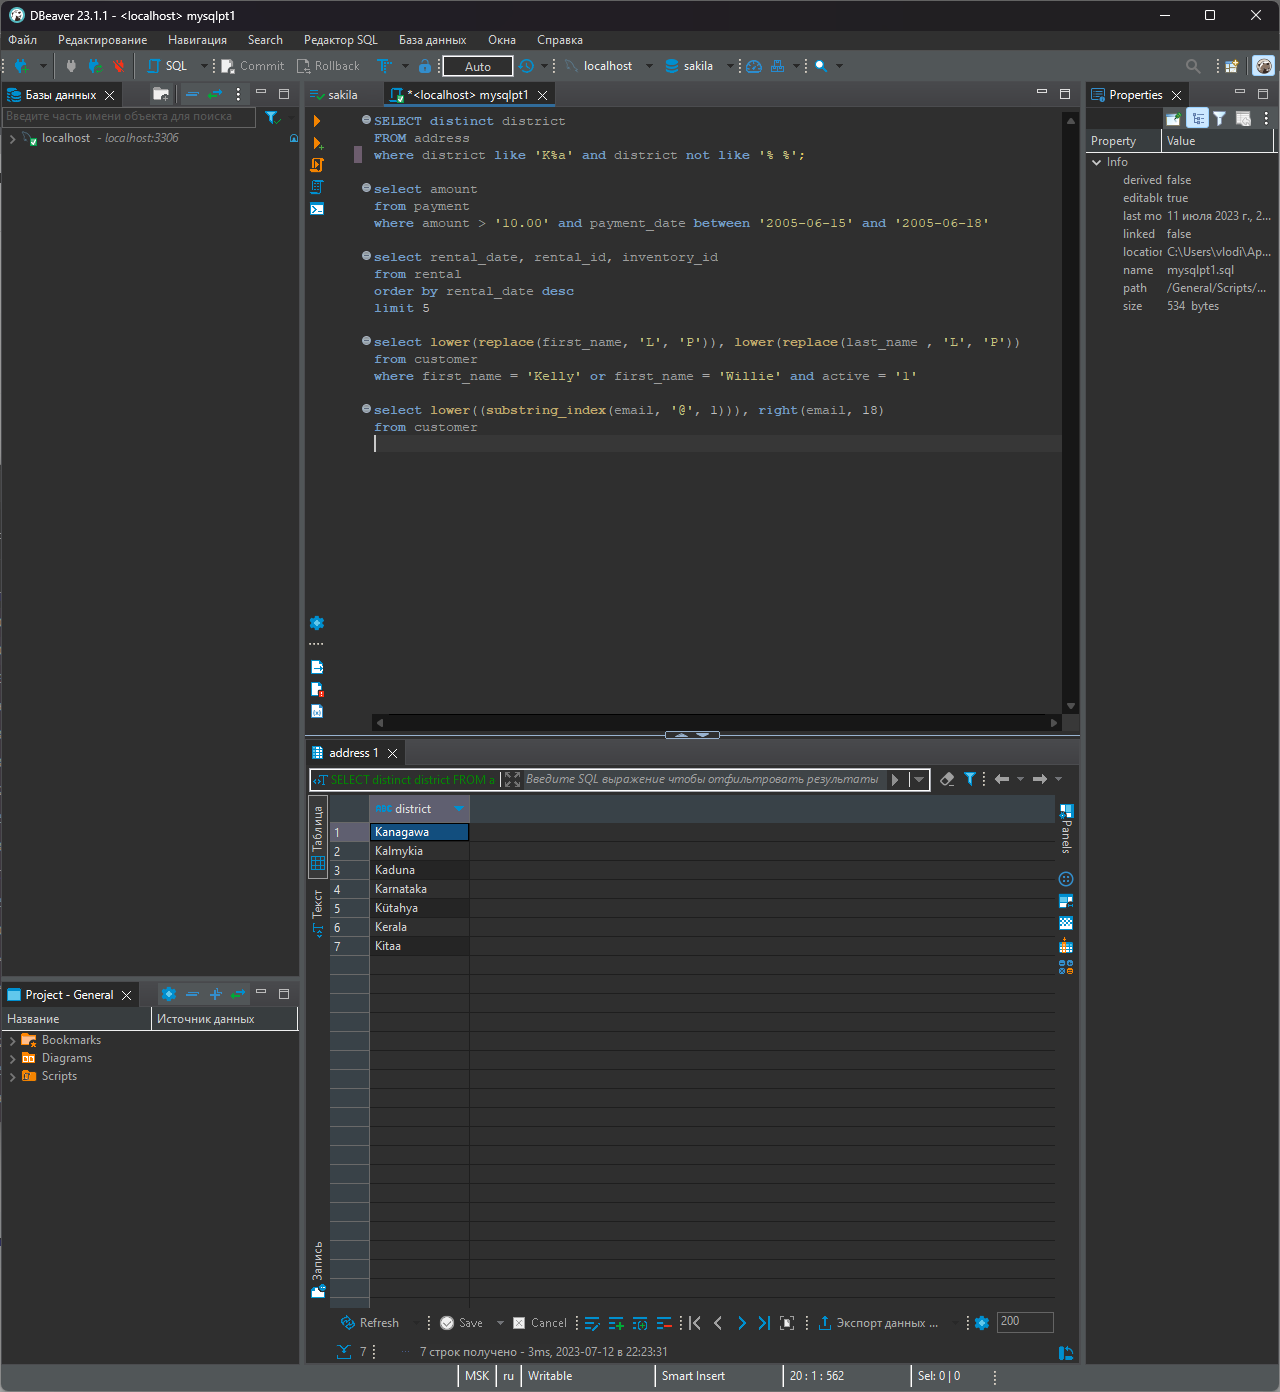
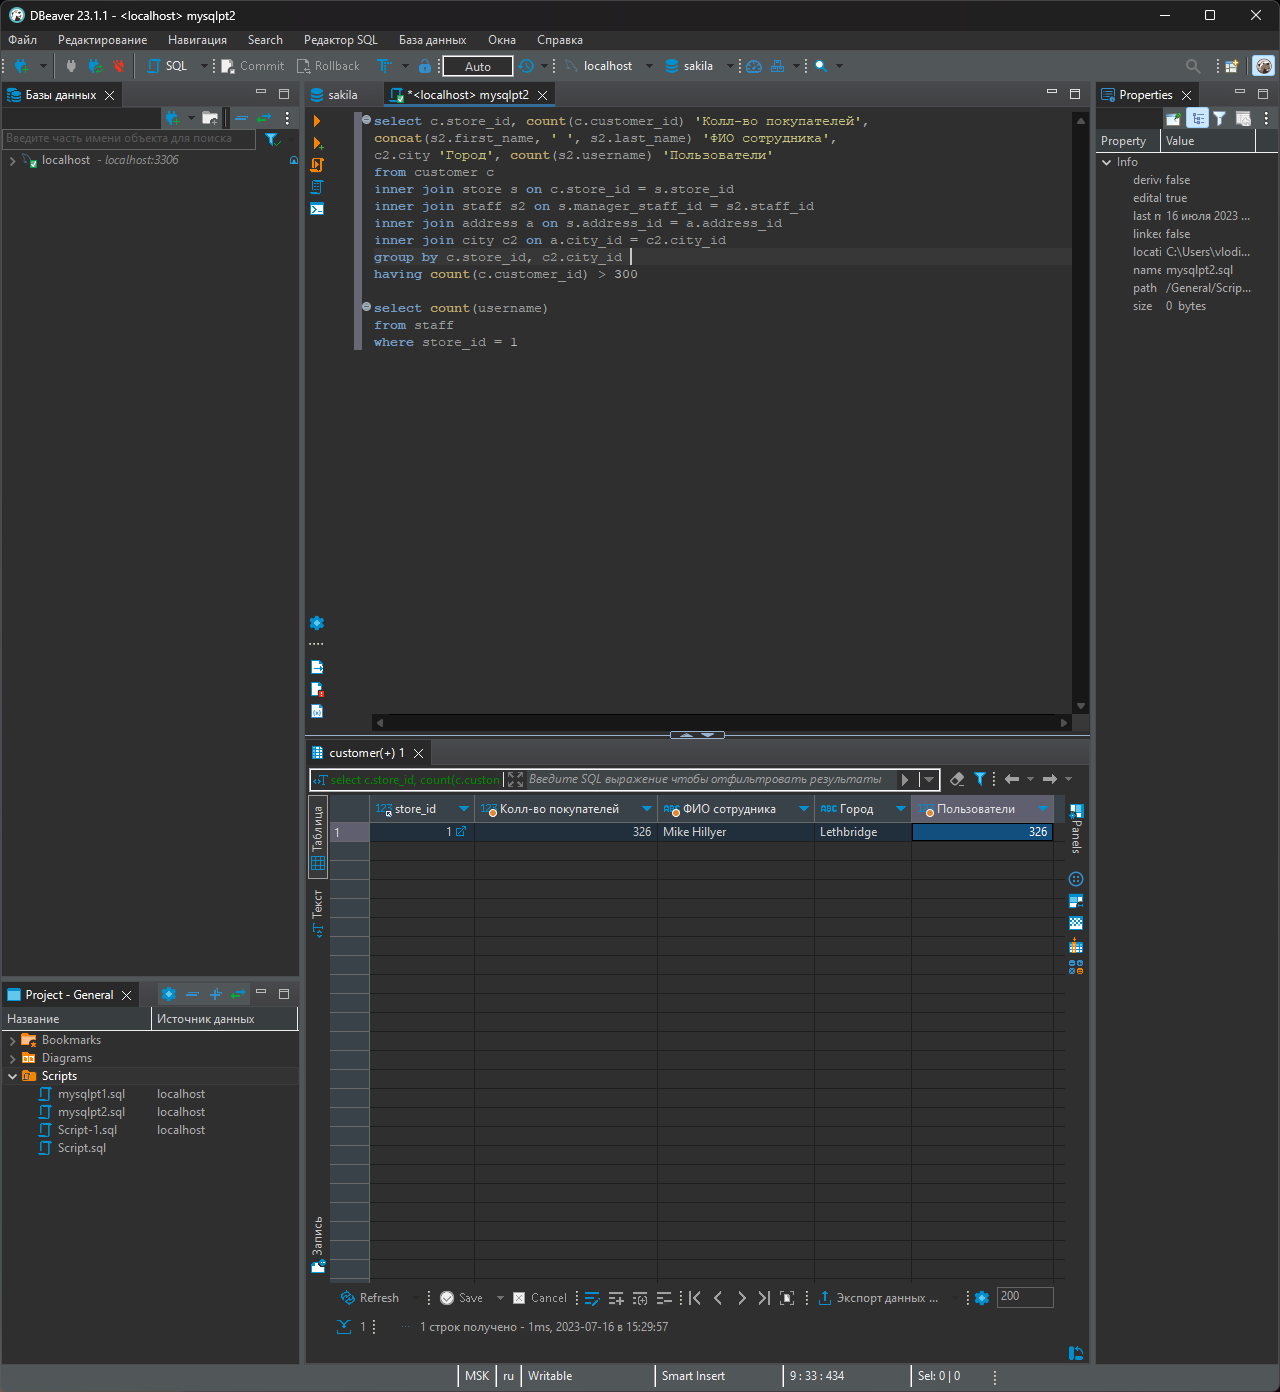
qwe

diff --git a/README.md b/README.md
@@ -1,83 +1,50 @@
-# «SQL. Часть 1» | "Бойко Владислав"
+# «SQL. Часть 2» | 'Бойко Владислав'
 ---
 ## Задание 1
-Хоть убей не пойму как исключить пробелы
+В целом надеюсь правильно понял задание, на счет пользователей неуверен, почему-то если count использовать то возвращает число равное customers. Можно конечно подзапрос написать, но думаю причина другная
 ![1.1](img/1.1.png)
-Есть вот два запроса, как их сенергировать не знаю даже, пробывал and в разных последовательностях и эпостасях ниче не выходит, посоветовали not like 'K%a[^ ]' тоже не помогло.
 ```mysql
-SELECT distinct district
-FROM address
-where district like "K%a"
-```
-```mysql
-SELECT distinct district
-FROM address
-where district not like "% %"
-```
-Запрос выдает пустоту: 
-```mysql
-SELECT distinct district
-FROM address
-where district <> "% %" and district = 'K%a'
-```
-Получилось:
-```mysql
-SELECT distinct district
-FROM address
-where district like 'K%a' and district not like '% %';
+select c.store_id, count(c.customer_id) 'Колл-во покупателей', 
+concat(s2.first_name, ' ', s2.last_name) 'ФИО сотрудника', 
+c2.city 'Город', s2.username 'Пользователи'
+from customer c
+inner join store s on c.store_id = s.store_id 
+inner join staff s2 on s.manager_staff_id = s2.staff_id 
+inner join address a on s.address_id = a.address_id 
+inner join city c2 on a.city_id = c2.city_id 
+group by c.store_id, s2.username 
+having count(c.customer_id) > 300
 ```
 ![1.2](img/1.2.png)
+Вроде видно должно быть.
 ---
 ## Задание 2
-Вот так как-то
+Вроде что-то как-то так
 ![2.1](img/2.1.png)
 ```mysql
-select amount
-from payment 
-where amount > '10.00' and payment_date between '2005-06-15' and '2005-06-18'
-```
-Исправил
-![2.2](img/2.2.png)
-```mysql
-select *
-from payment 
-where amount > '10.00' and payment_date between '2005-06-15' and '2005-06-19'
-order by payment_date 
+select count(title)
+from film 
+where `length` > (select avg(`length`) from film)
 ```
 ---
 ## Задание 3
-Вот так как-то
+Ну вроде бы как-то так
 ![3.1](img/3.1.png)
 ```mysql
-select rental_date, rental_id, inventory_id 
-from rental	
-order by rental_date desc
-limit 5
+SELECT MONTH(p.payment_date) 'Месяц', SUM(p.amount) 'Сумма платежей', 
+count(r.rental_id) 'Колл-во аренд в месяце' 
+FROM payment p
+inner join rental r on p.rental_id = r.rental_id 
+GROUP BY MONTH(p.payment_date), month(r.rental_date)
+order by SUM(p.amount) desc
+limit 1
 ```
 ---
-## Задание 4
-Вот так как-то
-![4.1](img/4.1.png)
-```mysql
-select lower(replace(first_name, 'L', 'P')), lower(replace(last_name , 'L', 'P'))  
-from customer
-where first_name = 'Kelly' or first_name = 'Willie' and active = '1'
-```
+## 
 ---
-## Задание 5
-Пытался как то с помощью right сделать, но не вышло, возможно что то не так прописываю, но вообще такое решение тоже работает, хоть и костыльно
-![5.1](img/5.1.png)
-```mysql
-select lower((substring_index(email, '@', 1))), substring_index(email, '@', -1)
-from customer 
-```
+## 
 ---
-## Задание 6
-Вышло только такая это кажется лажа, фактически костыль, по крайней мере второй столбец точно не будит коректно работать если емейлы будут разные.
-![6.1](img/6.1.png)
-```mysql
-select concat(substring(email, 1, 1), lower((substring_index((substring(email, 2, 100)), '@', 1)))), 
-concat(upper(substring(email, -18, 1)) , substring_index((substring(email, -17, 17)), '@', -1))
-from customer 
-```
----  
+## 
+---
+## 
+---
